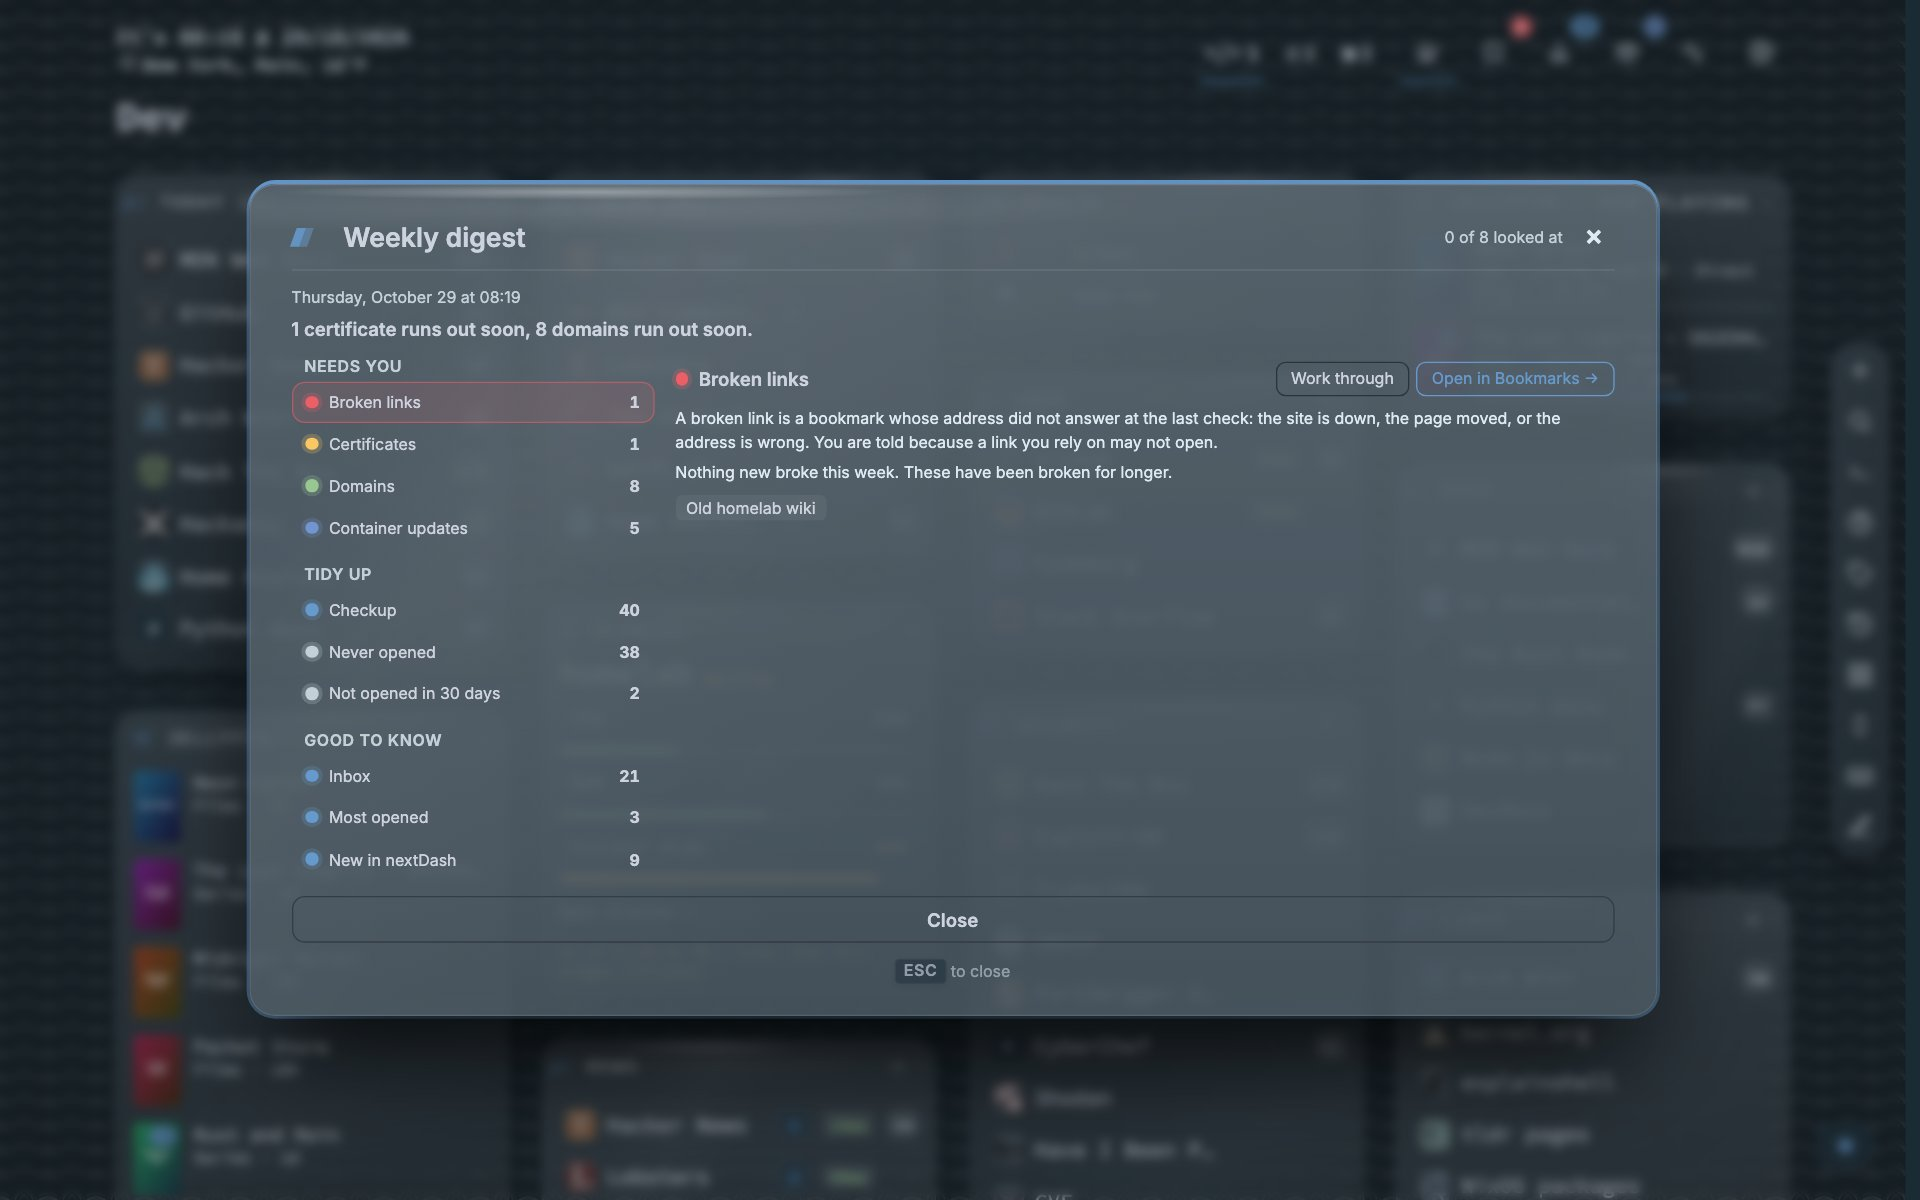
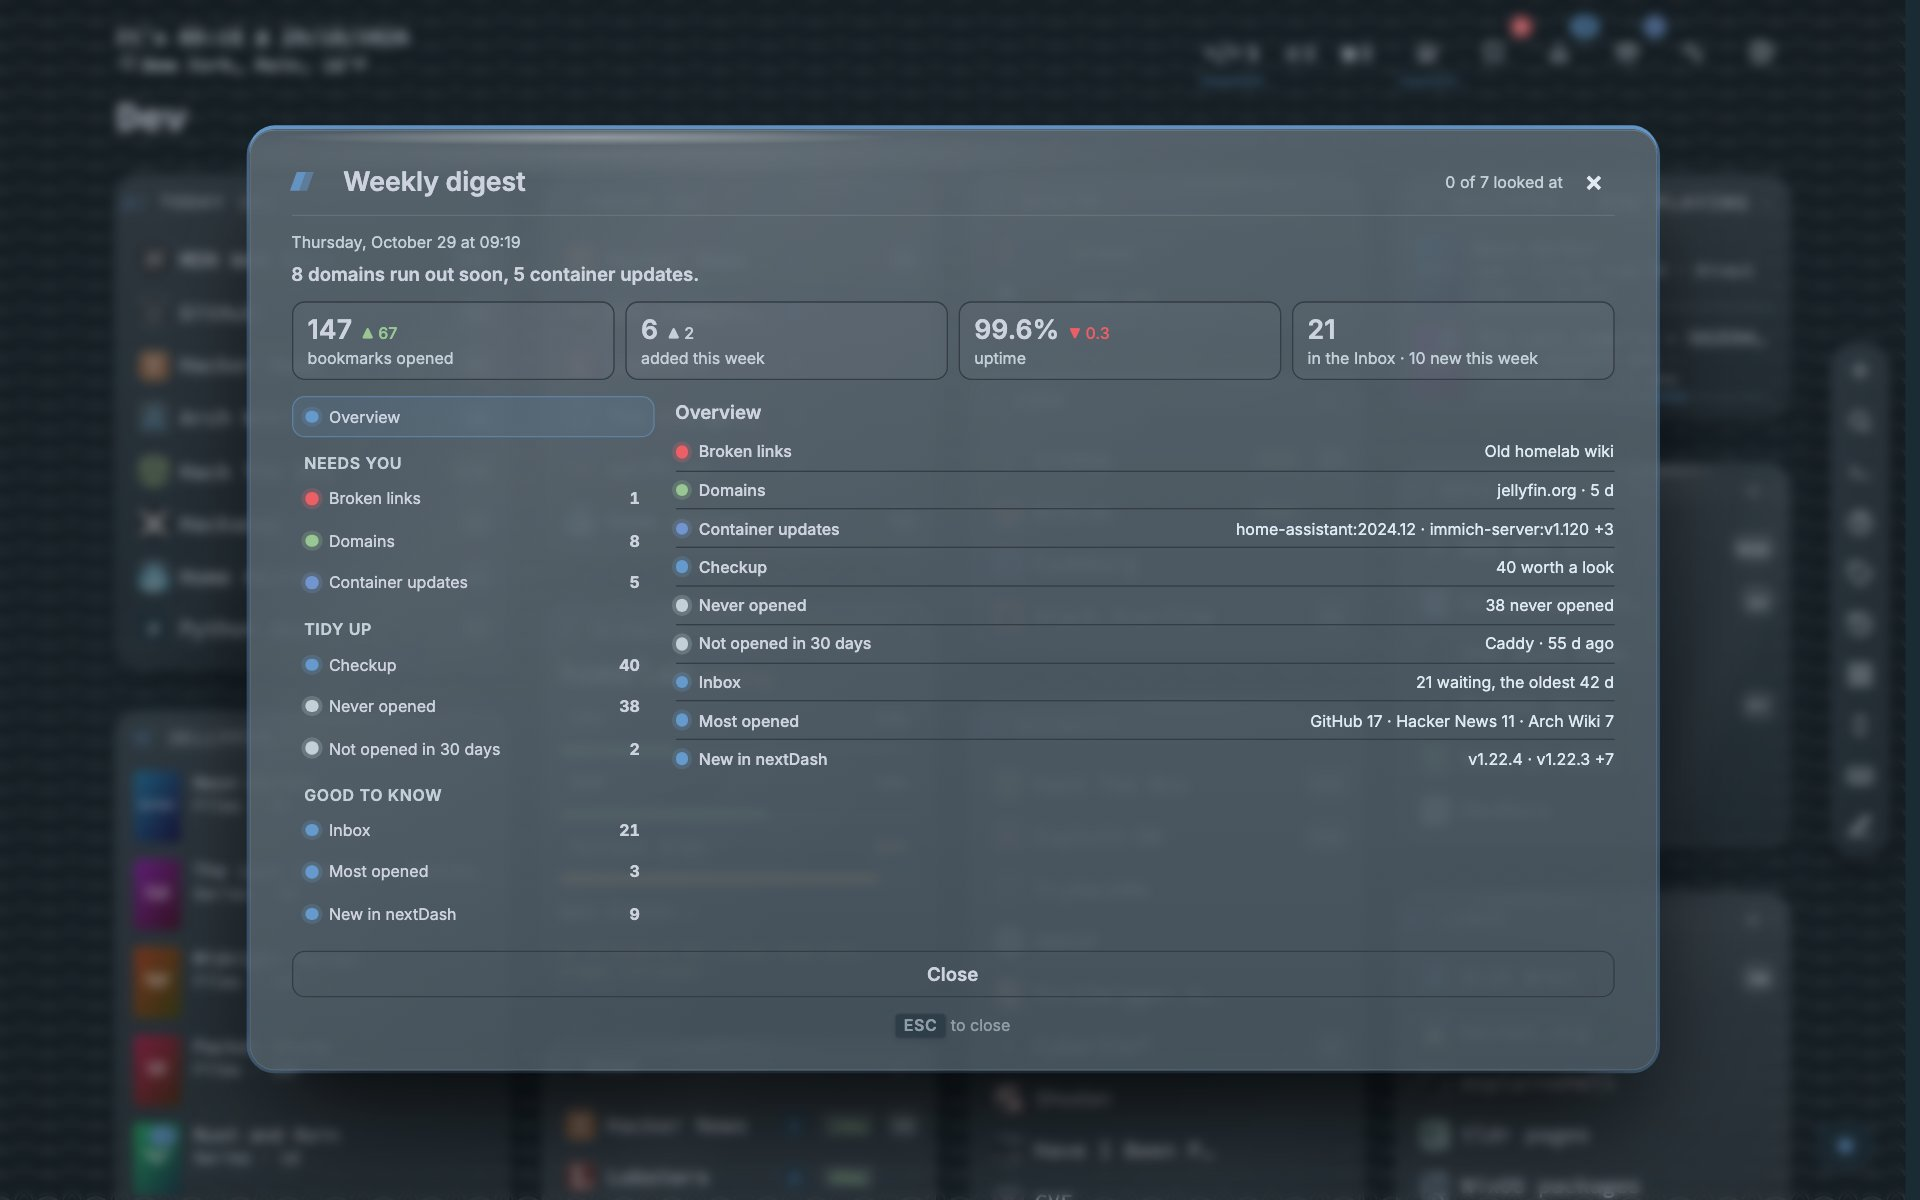
Docs for the digest window: manual, readme, changelog, what's new and shots

diff --git a/MANUAL.md b/MANUAL.md
@@ -2251,11 +2251,11 @@ They need a secure context: Safari and every browser on iPhone and iPad require 
 
 - **Where it arrives** — every week as a card in the corner of the dashboard, *Your week in nextDash*, that names the one or two things that matter most; and as a browser notification when those are on, through the service under **Downtime alerts**. A digest that falls in quiet hours waits until they end; one that came due while the server was off goes out once, when it starts. A week with nothing to say sends nothing.
 - **The card** — **Read the digest** opens the window. **Snooze 1 day** hides the card until tomorrow. **Got it** marks it seen; unless you opened the window, the card returns once the next day and once the day after, and then stays away until the next digest. Progress, snooze and reminders are kept per browser.
-- **Reading it** — the window lists the parts on the left in three groups: **Needs you** (broken links, certificates, domains, container updates), **Tidy up** (the checkup, never opened, not opened in 30 days) and **Good to know** (the Inbox, most opened, what is new in nextDash), with a sentence on top that names what matters most. The part you pick is shown in full on the right: what it means, the names behind the count (certificates and domains as bars of days left), and a button to the view where you deal with it — **Open in Bookmarks** (with **Work through** for the broken links), **Open Containers**, **Start the checkup**, **Review**, **Open Inbox**, **Open What's new**. The close button at the top and **Close** at the bottom are always in view; only the middle scrolls. After a part's button the digest shrinks to a bar in the bottom-left corner: *Weekly digest · 1 of 4 done*, and **Next** for the one after; it closes itself once every part is opened. Its **×** asks first, because the digest may still hold something important: **Keep it** or **Close until Monday**. Clicking the push notification opens the same window.
+- **Reading it** — along the top is **the week in figures**: bookmarks opened, bookmarks added, uptime with the number of outages, and the links in the Inbox with how many are new, each next to the week before (▲ and ▼, green when it went the better way). A figure with nothing behind it is left out, so a new install shows a short row. The window opens on an **Overview**, one line per part saying where it stands, and lists the parts on the left in three groups: **Needs you** (broken links, certificates, domains, container updates), **Tidy up** (the checkup, never opened, not opened in 30 days) and **Good to know** (the Inbox, most opened, what is new in nextDash), with a sentence on top that names what matters most. The part you pick is shown in full on the right: what it means, the names behind the count with what matters about each — a broken link with its page, since when it is down and what the last check said; the most opened with how often; never opened with their page; not opened lately with how long ago; the Inbox with how long its oldest link has waited — certificates and domains as bars of days left, and a button to the view where you deal with it — **Open in Bookmarks** (with **Work through** for the broken links), **Open Containers**, **Start the checkup**, **Review**, **Open Inbox**, **Open What's new**. The close button at the top and **Close** at the bottom are always in view; only the middle scrolls. After a part's button the digest shrinks to a bar in the bottom-left corner: *Weekly digest · 1 of 4 done*, and **Next** for the one after; it closes itself once every part is opened. Its **×** asks first, because the digest may still hold something important: **Keep it** or **Close until Monday**. Clicking the push notification opens the same window.
 - **Setting it up** — Monitoring → Notifications → **Weekly digest**: **On** (the day), **At** (the hour), and which parts go in — **Include container updates**, **Include most opened, unused and Inbox**, **Include what is new in nextDash this week**; broken links and certificates always stay. **The latest digest → Show** opens the last one again, as does the digest panel in Config → Overview; **Send a proof digest now → Send** builds one from today's data and sends it, without moving the week's own digest.
 
-<p align="center"><img src="screenshots/manual.md/12-weekly-digest.jpg" alt="The weekly digest window: three groups of parts on the left (Needs you, Tidy up, Good to know) with a count each, the chosen part, Broken links, in full on the right, and Close at the bottom" width="860"></p>
-<p align="center"><sub>The weekly digest: the parts on the left, the chosen one on the right.</sub></p>
+<p align="center"><img src="screenshots/manual.md/12-weekly-digest.jpg" alt="The weekly digest window: the week in figures along the top, the Overview chosen on the left above three groups of parts (Needs you, Tidy up, Good to know), and on the right one line per part saying where it stands" width="860"></p>
+<p align="center"><sub>The weekly digest: the week in figures on top, the Overview on the right.</sub></p>
 
 On the day the digest comes out it goes first, and the daily review card ([§4](#corner-cards)) waits — both offer the same broken and unopened links.
 

diff --git a/CHANGELOG.md b/CHANGELOG.md
@@ -138,6 +138,7 @@ Edit the dashboard in place, search that learns your hours, a checkup for what n
 - **new — A widget's sheet over the dashboard.** `openWidgetSheetOverDashboard` opens the Config → Widgets sheet on the dashboard, restores Config's page filter, search and drafts when it closes, and counts as a modal for the dashboard's keys. The sheet joined the overlay theming (`theme-overlays.css`, `BIG_LAYERS`), so it is drawn like the other dialogs in every theme, in Config as well.
 - **new — The pencil is the tenth action button.** `showEditModeButton` (on by default, also for old settings files), `maxHeaderActions` goes to 10, `:maxactions` offers 10, and the button carries its key for screen readers.
 - **new — A click on a block's title chooses the block and leaves it as it is.** In the mode the capture handler stops the title's own click, which would otherwise fold the block and save that.
+- **new — The edit-mode button explains itself** under Config → Appearance → Action bar (`showEditModeButtonInfoTitle` and `showEditModeButtonInfoMessage` in six languages), which `tests/config-info-reset.spec.js` asks of every setting with a default.
 - **new — A corner card** introduces edit mode and `Shift + M`, once, no sooner than three minutes after the latest corner card (`minGapAfterCardMs` in `NoticeCard`, kept across loads), and the dashboard tour has a step for it.
 
 ### Search
@@ -152,6 +153,8 @@ Edit the dashboard in place, search that learns your hours, a checkup for what n
 ### Weekly digest
 
 - **new — Reworked.** The digest is always on: the Config switch is gone and an old file that had it off is read as on. The window has a list of parts in three groups (Needs you, Tidy up, Good to know) beside a detail, with Close always in view; the corner card has *Read the digest*, *Snooze 1 day* and *Got it* with two reminders; the bar asks before it closes; a fresh install gets its first digest after at least seven days; *not opened* counts 30 days; and the checkup is a part of it.
+- **new — The week in figures.** A row of figures along the top of the window: bookmarks opened, bookmarks added, uptime with its outages, and the Inbox with how many links are new, each next to the seven days before with ▲ or ▼ (green when it went the better way). `digestWeek` in the snapshot (`buildDigestWeek` in `digest_build.go`) counts opens from each bookmark's `openLog`, added from `createdAt` (the unsorted page left out), uptime pooled over the check history without maintenance samples, and outages from the samples that raised an alert; it follows the digest's own switches, and a figure with nothing behind it is left out of the snapshot and the window.
+- **new — An Overview, and detail behind every name.** The window opens on an Overview with one line per part saying where it stands, each a way into that part. A broken link shows its page, since when it is down and the last check's message (`brokenItems`); the most opened show their counts (`topOpenedItems`); never opened shows the page (`neverOpenedItems`); not opened lately shows how long ago, longest first (`staleItems`); the Inbox says how long its oldest link has waited (`inboxOldestDays`). A snapshot from before keeps its chips (`enrichParts` in `digest-notice.js`). Covered by `tests/digest-window.spec.js` and the `TestDigestWeek*` and `TestDigest*Items*` tests.
 
 ### Widgets
 
@@ -169,7 +172,7 @@ Edit the dashboard in place, search that learns your hours, a checkup for what n
 
 - **docs — `static/data/whats-new/v1.22.4.json` and its index entry**; `whats-new-stub.js` moved to `DASHBOARD_RELEASE` v1.22.4 and `whats-new-v357`. `hideFromModal` is removed from every entry of the index, and `tests/whats-new-hidden-release.spec.js` now expects an empty list and every earlier release in the modal.
 - **docs — Config → Help** (edit mode panel; digest, search, keyboard, header and health texts), **Tips**, **Overview and About → News & features** (four entries), the **cheat sheet** with its PDF regenerated, MANUAL.md, and the six locale files.
-- **docs — README.md and MANUAL.md** describe edit mode, Usually now with result actions, the checkup and the weekly digest, with new shots (`nextdash-edit-mode.jpg`, `nextdash-digest.jpg`, `04-edit-mode*.jpg`, `08-search-*.jpg`, `12-checkup.jpg`, `12-weekly-digest.jpg`); every README shot that shows the action bar is retaken with the pencil as its tenth button (`tests/readme-screenshots.spec.js`, `tests/manual-screenshots-v1-22-4.spec.js`).
+- **docs — README.md and MANUAL.md** describe edit mode, Usually now with result actions, the checkup and the weekly digest with its figures and Overview, with new shots (`nextdash-edit-mode.jpg`, `nextdash-digest.jpg`, `04-edit-mode*.jpg`, `08-search-*.jpg`, `12-checkup.jpg`, `12-weekly-digest.jpg`); every README shot that shows the action bar is retaken with the pencil as its tenth button (`tests/readme-screenshots.spec.js`, `tests/manual-screenshots-v1-22-4.spec.js`).
 - **docs — Texts say "action bar" for the pencil** (it is not in the header) and the digest's own group names, *Needs you*, *Tidy up* and *Good to know*, in Help, the manual, the What's new item and the five translations; two Dutch checkup labels are translated.
 
 ---

diff --git a/README.md b/README.md
@@ -106,7 +106,7 @@ nextDash is a bookmark dashboard that also knows your Docker host. The link to S
     <td width="50%" align="center" valign="top">
       <img src="screenshots/nextdash-digest.jpg" alt="Weekly digest" width="100%" />
       <br />
-      <sub><b>Weekly digest</b> <i>(Oceanic Steel)</i> — What needs you, what is worth tidying up and what is good to know, in one window: broken links, certificates and domains running out, container updates, the checkup, what nobody opens and what is new. Pick a part on the left, deal with it with the button on the right.</sub>
+      <sub><b>Weekly digest</b> <i>(Oceanic Steel)</i> — The week in figures — opens, new bookmarks, uptime, the Inbox — each next to the week before, then what needs you, what is worth tidying up and what is good to know: broken links with since when and why, certificates and domains running out, container updates, the checkup, what nobody opens and what is new. An overview first, a part per click.</sub>
     </td>
   </tr>
 </table>
